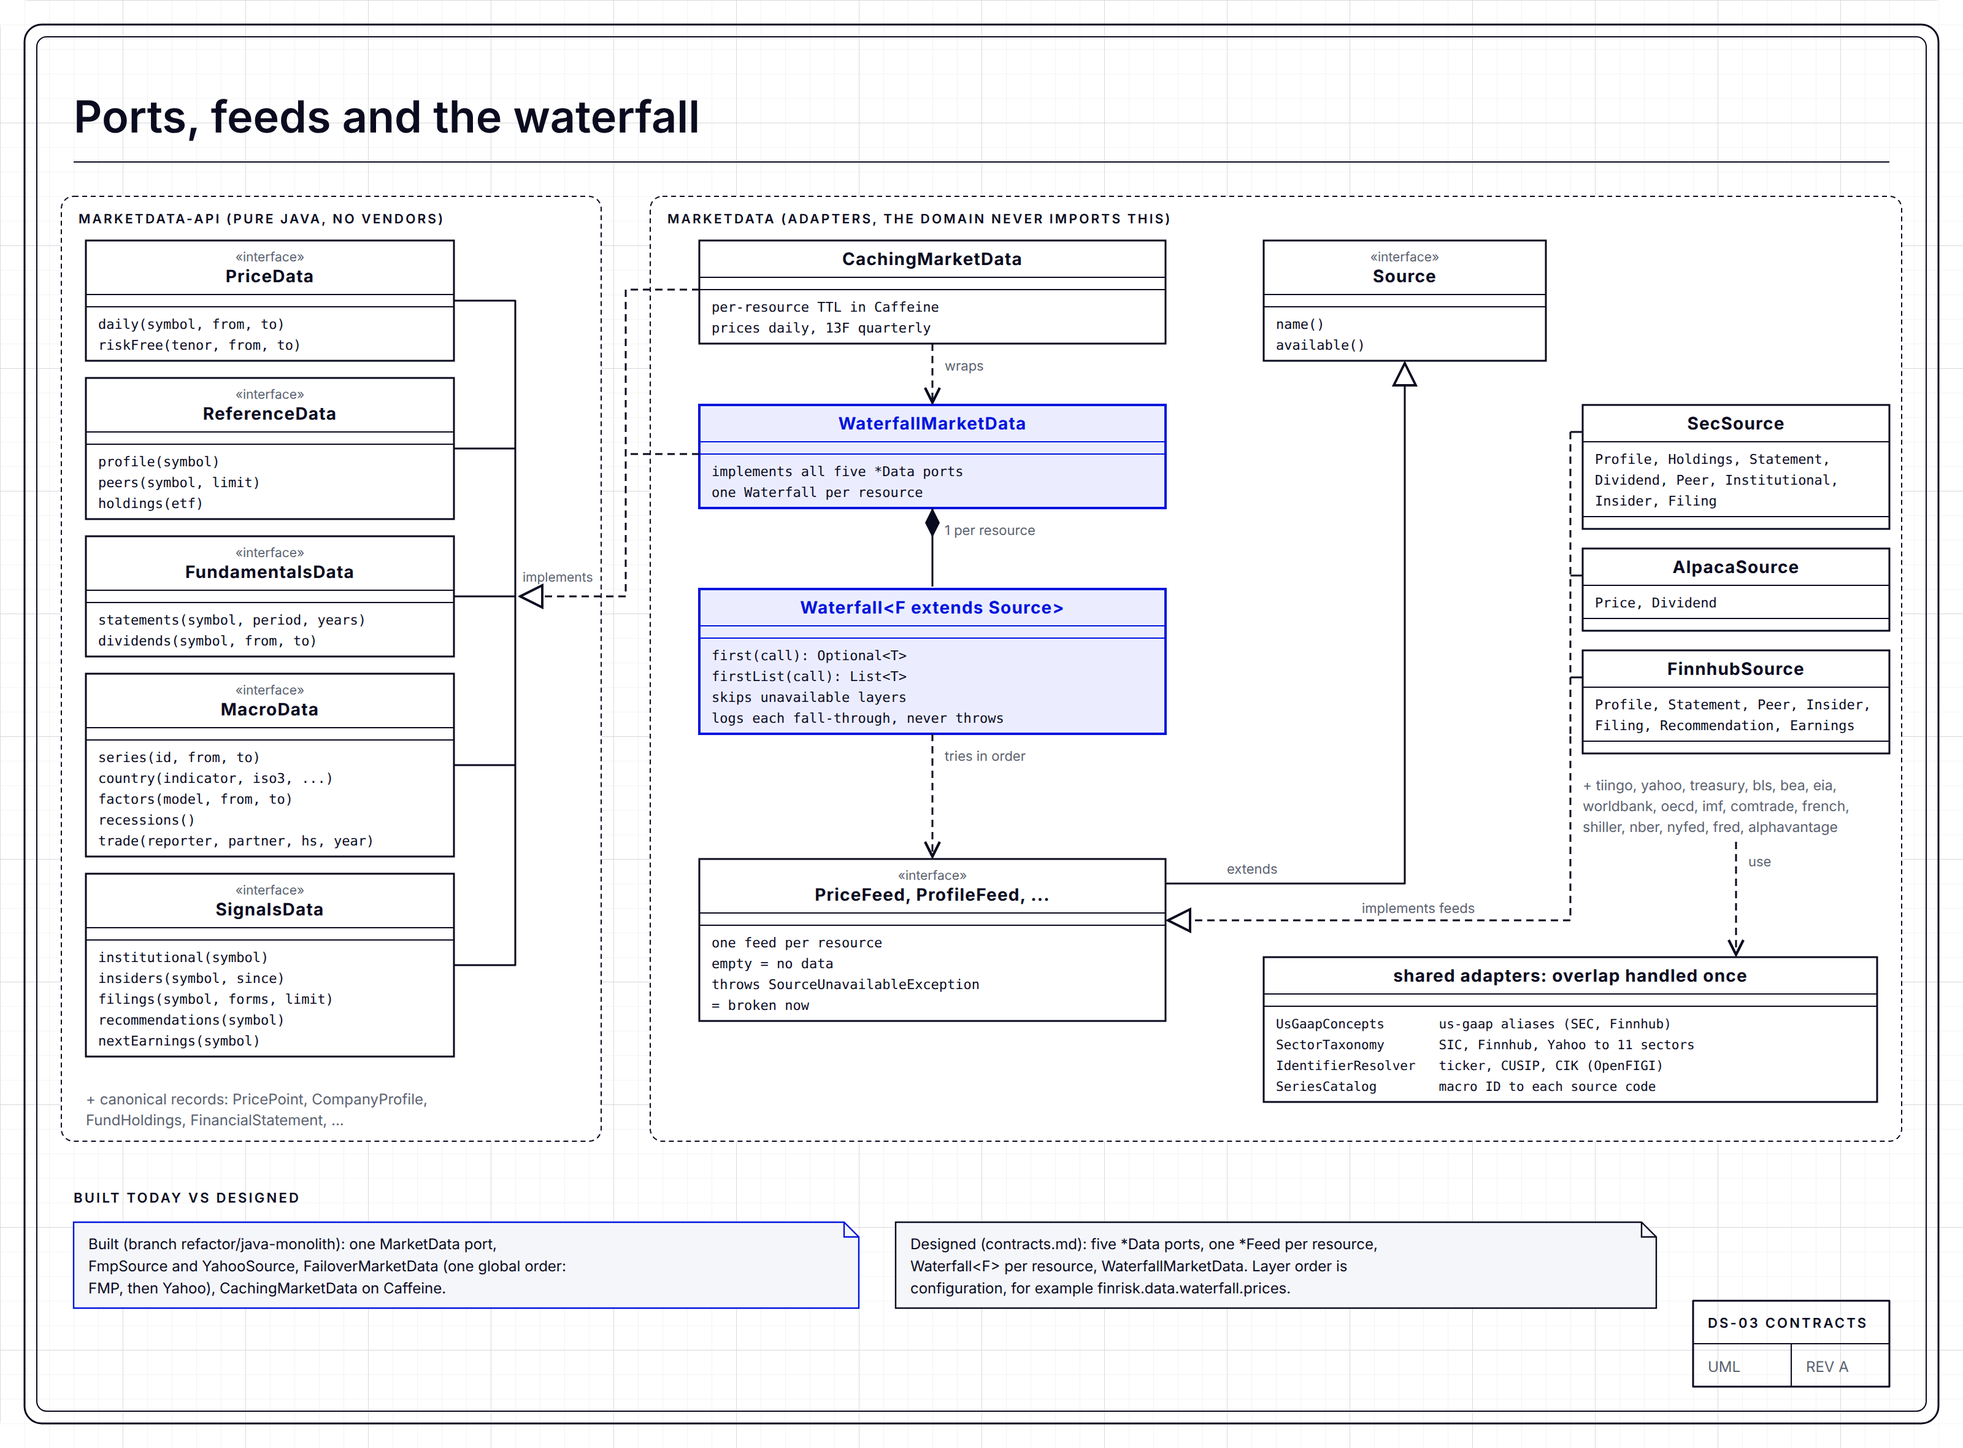
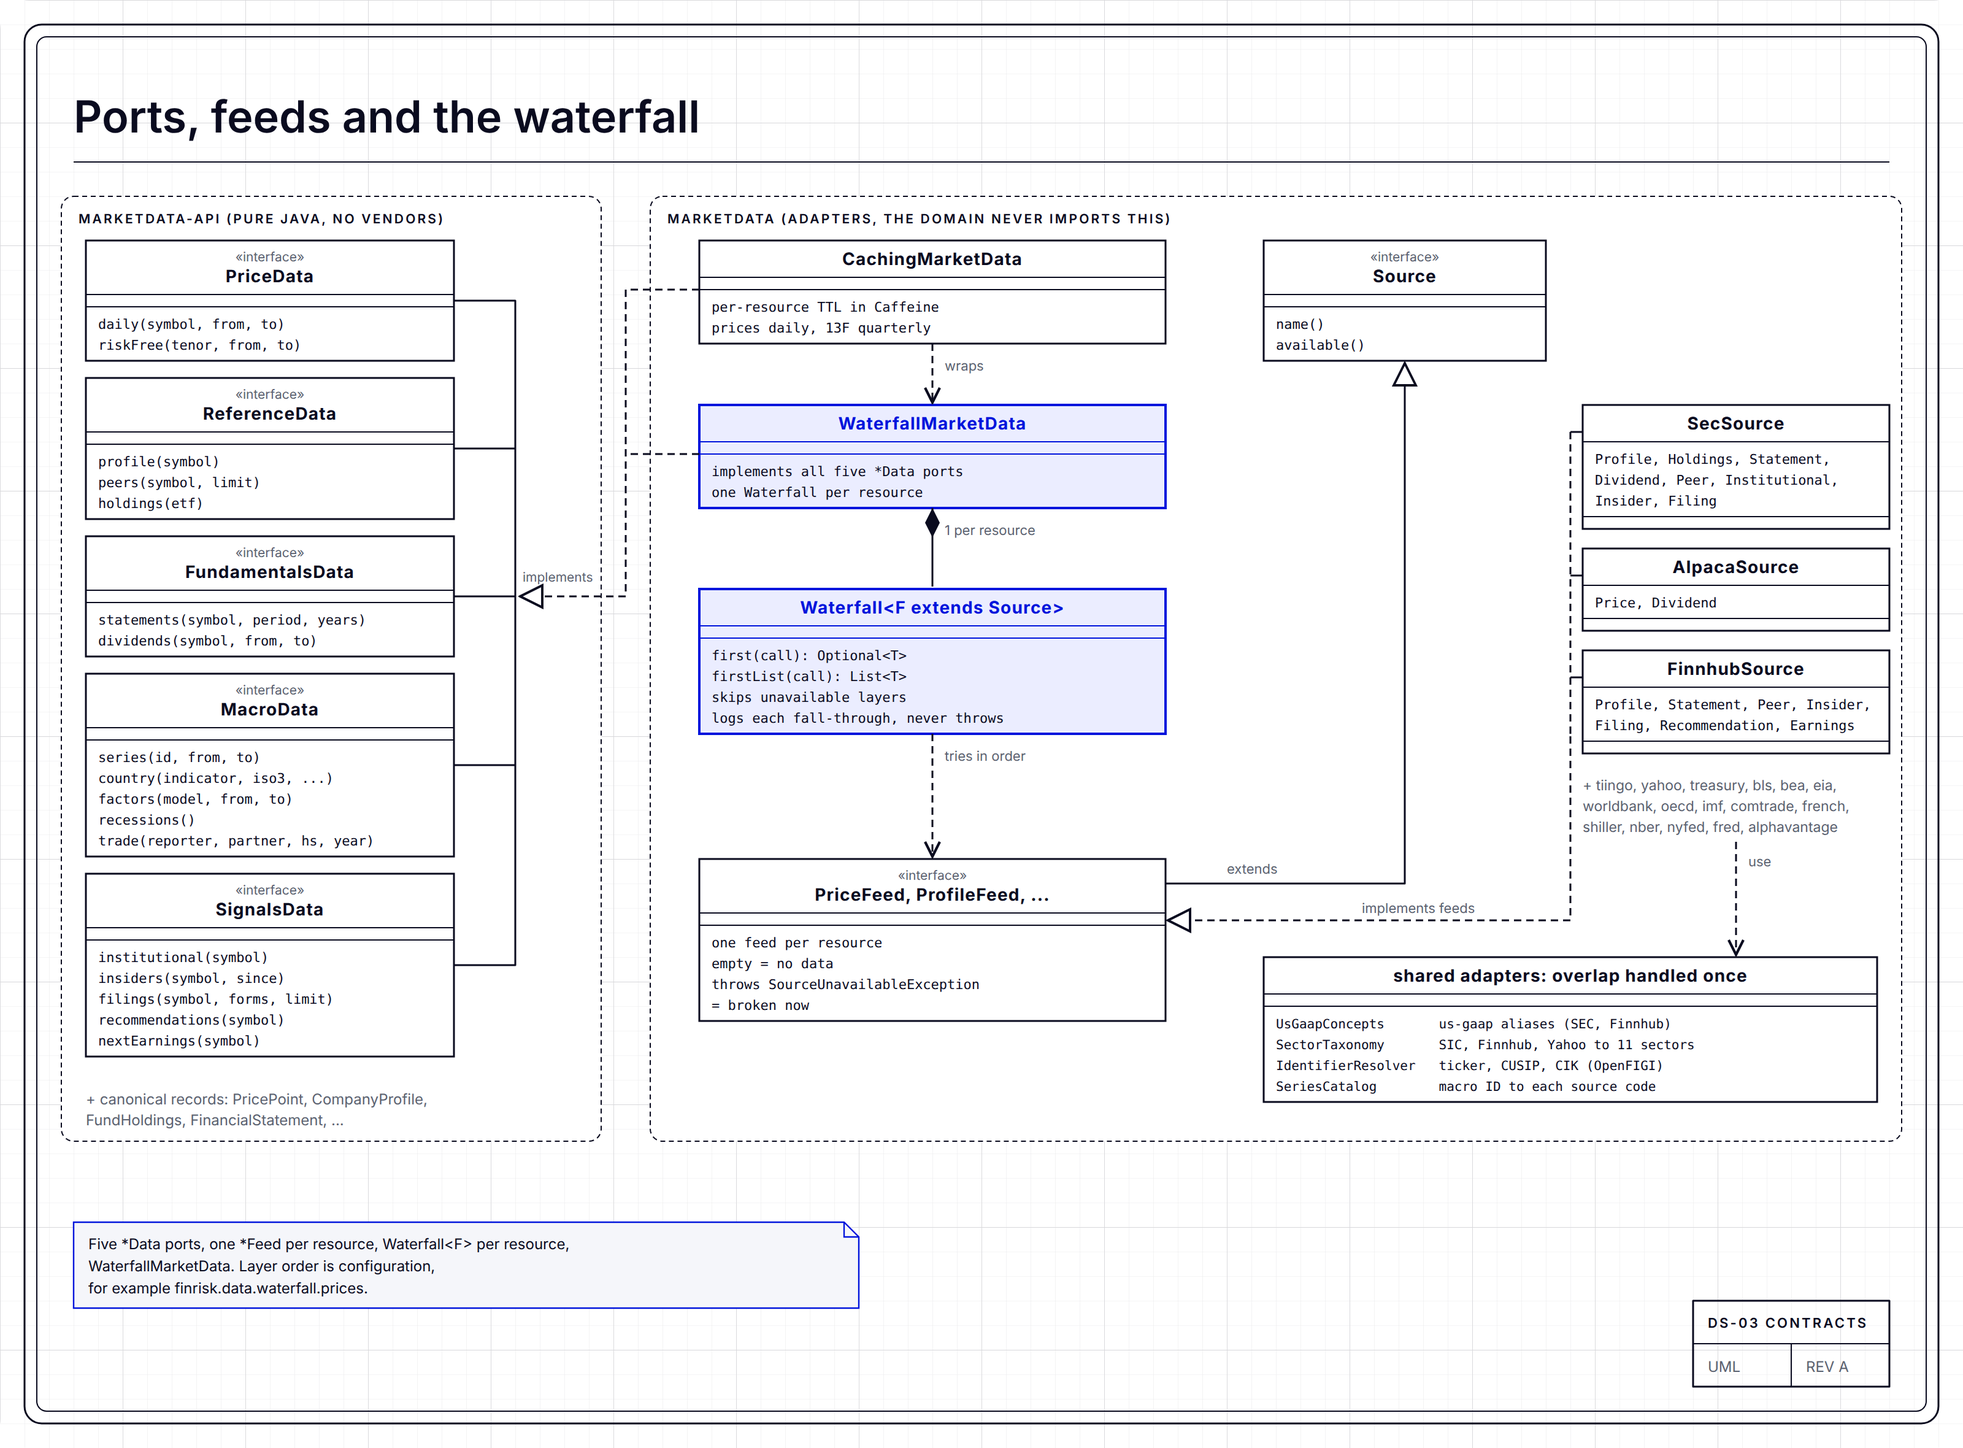
docs: drop build-status notes from README and sheets

Changed region(s): [[0.0312, 0.8042, 0.2812, 0.897], [0.4688, 0.8352, 0.7188, 0.897], [0.8125, 0.8352, 0.8438, 0.8661]]

diff --git a/docs/images/build-uml-usecases.py b/docs/images/build-uml-usecases.py
@@ -13,7 +13,7 @@ o.append(text(296, 203, 'FINRISK', 't'))
 W = 260
 PK = {  # name: (x, y, h, cases)
     'PUBLIC': (300, 220, 230, ['View the landing page', 'Request access', 'Try the demo (public data)']),
-    'TENANT ADMIN (PLANNED)': (900, 220, 230, ['Invite members', 'Assign roles', 'Manage the tenant']),
+    'TENANT ADMIN': (900, 220, 230, ['Invite members', 'Assign roles', 'Manage the tenant']),
     'PORTFOLIO': (300, 480, 400, ['Manage accounts', 'Record trades', 'View holdings and P&amp;L']),
     'FIVE LENSES': (600, 480, 400, ['Analyse portfolio risk', 'Read fundamentals', 'Value a stock',
                                      'Run a stress test', 'See market intelligence']),
@@ -51,9 +51,4 @@ o.append(line(f'M1220 624 L{ax + 112} {ay}'))
 ix, iy = pos['Ingest documents']
 o.append(line(f'M1220 616 L{ix + 112} {iy}'))
 
-o.append(text(60, 940, 'STATUS', 't'))
-for i, s in enumerate(['Built: risk metrics and portfolio CRUD (risk-management-ms), valuation API, hybrid-rag.',
-                       'Designed: fundamentals, stress tests, market intelligence, the demo on public data.',
-                       'Planned: tenants, roles and sign-in. Today the APIs have no login.']):
-    o.append(text(60, 964 + i * 20, s, style='font-size:12.5px;fill:#0a0b1f'))
 uml.finish(o, 'uml-usecases', 'UML-01 USE CASES')

diff --git a/docs/images/build-ds-contracts.py b/docs/images/build-ds-contracts.py
@@ -87,11 +87,7 @@ o.append(line(f'M1415 {src_bottom + 56} V{sh[1]-2}', 'dashed', end='open'))
 o.append(text(1425, src_bottom + 76 if src_bottom + 76 < sh[1] - 4 else sh[1] - 6, 'use', style='font-size:11px'))
 
 # --- strip ---------------------------------------------------------------------------
-o.append(text(60, 980, 'BUILT TODAY VS DESIGNED', 't'))
-o.append(note(60, 996, 640, ['Built (branch refactor/java-monolith): one MarketData port,',
-                             'FmpSource and YahooSource, FailoverMarketData (one global order:',
-                             'FMP, then Yahoo), CachingMarketData on Caffeine.'], accent=True))
-o.append(note(730, 996, 620, ['Designed (contracts.md): five *Data ports, one *Feed per resource,',
-                              'Waterfall&lt;F&gt; per resource, WaterfallMarketData. Layer order is',
-                              'configuration, for example finrisk.data.waterfall.prices.']))
+o.append(note(60, 996, 640, ['Five *Data ports, one *Feed per resource, Waterfall&lt;F&gt; per resource,',
+                             'WaterfallMarketData. Layer order is configuration,',
+                             'for example finrisk.data.waterfall.prices.'], accent=True))
 uml.finish(o, 'ds-contracts', 'DS-03 CONTRACTS', view='UML')

diff --git a/docs/images/build-ds-infra.py b/docs/images/build-ds-infra.py
@@ -92,7 +92,4 @@ for i, s in enumerate(['Prisma Postgres: 200k operations a month, 2 GB storage.'
                        'a seed sized to the storage cap, refresh on visit.',
                        'Prices change. See each vendor’s pricing page.']):
     o.append(text(640, ys + 26 + i * 21, s, style='font-size:12.5px;fill:#0a0b1f'))
-o.append(note(1130, ys - 10, 420, ['Status: the backend modules marketdata-api,', 'marketdata and valuation are built.',
-                                   'risk is in progress, app is not built.', 'The Render deploy is planned (plan Task 13).',
-                                   'The backend-to-RAG call is not written.'], accent=True))
 uml.finish(o, 'ds-infra', 'DS-06 INFRA', view='AXO 32/40')

diff --git a/docs/images/build-ds-waterfall.py b/docs/images/build-ds-waterfall.py
@@ -156,7 +156,6 @@ o.append(svg)
 
 # --- rules (flat strip) -------------------------------------------------------------
 yb = yr + 14 + th + 40
-o.append(note(60, yb - 10, 440, ['Designed, not built. The code today has one', 'global order: FMP, then Yahoo (FailoverMarketData).'], accent=True))
 o.append(text(xt, yb, 'RULES', 't'))
 for i, s in enumerate(['A layer counts only if every required field is present. Otherwise the next layer runs.',
                        'One answer comes from one layer. Fields are never mixed across layers.',

diff --git a/README.md b/README.md
@@ -33,7 +33,7 @@
 
 FinRisk helps a private investor understand what they own. You enter your accounts and trades. FinRisk then looks at the portfolio through five lenses: portfolio risk, fundamentals, intrinsic valuation, stress testing and market intelligence. It answers plain questions. How concentrated am I? What do my ETFs really hold? What is this stock worth? What happens to my portfolio in a recession? It gives analysis, not investment advice.
 
-There are three actors. The **investor** is a member of a tenant and owns portfolios. The **tenant admin** invites members and gives them roles. The **demo visitor** is not signed in. Today the visitor sees the landing page. In the design, the visitor also gets a demo on public-domain data. Two outside systems serve them. **Data sources** supply prices, filings and macro series through the waterfall. **hybrid-rag** answers questions about documents that the investor uploads.
+There are three actors. The **investor** is a member of a tenant and owns portfolios. The **tenant admin** invites members and gives them roles. The **demo visitor** is not signed in. The visitor gets a demo on public-domain data. Two outside systems serve them. **Data sources** supply prices, filings and macro series through the waterfall. **hybrid-rag** answers questions about documents that the investor uploads.
 
 The landing page is live at [finance-kit-bay.vercel.app](https://finance-kit-bay.vercel.app/). These screenshots come from it.
 
@@ -47,22 +47,22 @@ The landing page is live at [finance-kit-bay.vercel.app](https://finance-kit-bay
 
 The landing copy is older than the current scope. It still names geopolitical and supply-chain shocks under stress testing. Those are out of scope now (see below).
 
-<img alt="UML use-case diagram. Demo visitor uses the public package. Investor uses portfolio, five lenses and documents. Tenant admin uses the planned admin package. Data sources serve the lenses. hybrid-rag serves the document use cases." src="docs/images/uml-usecases.png" width="100%">
+<img alt="UML use-case diagram. Demo visitor uses the public package. Investor uses portfolio, five lenses and documents. Tenant admin uses the admin package. Data sources serve the lenses. hybrid-rag serves the document use cases." src="docs/images/uml-usecases.png" width="100%">
 
-A line to a package means the actor can use every use case in it. The investor reaches three packages through one bus at the bottom. The status strip says what exists. Risk metrics and portfolio CRUD exist in `risk-management-ms`. The valuation API exists on the `refactor/java-monolith` branch. Fundamentals, stress tests and market intelligence are designed. Tenants, roles and sign-in are planned. Today the APIs have no login.
+A line to a package means the actor can use every use case in it. The investor reaches three packages through one bus at the bottom.
 
 ## What this project focuses on
 
-This is a personal, non-commercial project. It shows how to build a useful finance tool with no budget for data or hosting. Each focus below is a skill the project exercises. Where a part is designed but not built, the text says so.
+This is a personal, non-commercial project. It shows how to build a useful finance tool with no budget for data or hosting. Each focus below is a skill the project exercises.
 
 - **Multisource data aggregation.** Twenty-eight free sources were graded on depth, quota and terms. Each data resource gets its own ordered list of sources.
 - **Good decisions under budget and compute limits.** Free tiers set hard caps: 25 calls a day, 500 symbols a month, 200k database operations a month. The design treats each cap as a constraint, not as an afterthought.
-- **Cache, database and staleness design.** History is stored once and grows by delta fetches. Each resource has a fresh TTL, a revision window and a maximum stale age. This is designed, not built. Today the code has an in-memory Caffeine cache only.
-- **Shared market data, separate portfolios.** Market data is one shared store. Portfolios are private to a tenant, with role-based access. This is planned, not built.
-- **Decoupling through ports and the waterfall.** Valuation and risk see only the `marketdata-api` port. They cannot see a vendor at compile time. Today the adapters try FMP, then Yahoo. The per-resource waterfall is designed.
-- **Financial domain knowledge.** DCF, dividend discount and Peter Lynch fair value, peer multiples, beta, alpha, volatility, correlation, drawdown, downside risk, sector exposure and ETF look-through. These exist in code today.
-- **Front-end visualisation.** The landing app is React 19, Vite and Tailwind 4. The analysis screens are not built yet.
-- **Java OOP and CRUD practice.** Layered code, plain JDBC, request validation with `@Valid`, paged and sorted transaction lists, and clear error mapping. Rate limiting is planned, not built.
+- **Cache, database and staleness design.** History is stored once and grows by delta fetches. Each resource has a fresh TTL, a revision window and a maximum stale age. Caffeine sits in front of Postgres for hot reads.
+- **Shared market data, separate portfolios.** Market data is one shared store. Portfolios are private to a tenant, with role-based access.
+- **Decoupling through ports and the waterfall.** Valuation and risk see only the `marketdata-api` port. They cannot see a vendor at compile time. Each resource has its own ordered waterfall of sources.
+- **Financial domain knowledge.** DCF, dividend discount and Peter Lynch fair value, peer multiples, beta, alpha, volatility, correlation, drawdown, downside risk, sector exposure and ETF look-through.
+- **Front-end visualisation.** The landing app is React 19, Vite and Tailwind 4.
+- **Java OOP and CRUD practice.** Layered code, plain JDBC, request validation with `@Valid`, paged and sorted transaction lists, and clear error mapping. Rate limiting per source and per client.
 - **Respect for data licences.** Each source has a rights tier. FRED is never stored, because its terms forbid it. Vendor data stays behind a login.
 
 These areas are **not** in scope. They were dropped on purpose, because no free source covers them well, or because other signals already answer the same question:
@@ -91,13 +91,11 @@ A waterfall tries the sources for one resource in order, until one answers. The 
 
 An answer counts only if every required field is present. A required field is checked in the canonical record's constructor. When a layer returns rows without it, the waterfall moves on. One answer comes from one layer. Fields are never mixed across layers, because mixing breaks consistency. A missing optional field stays null, and the domain skips that metric and says so.
 
-<img alt="UML class diagram. marketdata-api holds five interface ports. marketdata holds CachingMarketData, WaterfallMarketData, Waterfall of F, the Feed interfaces, the Source interface, three example sources and four shared adapters. A strip says what is built and what is designed." src="docs/images/ds-contracts.png" width="100%">
+<img alt="UML class diagram. marketdata-api holds five interface ports. marketdata holds CachingMarketData, WaterfallMarketData, Waterfall of F, the Feed interfaces, the Source interface, three example sources and four shared adapters." src="docs/images/ds-contracts.png" width="100%">
 
 The domain sees five ports: `PriceData`, `ReferenceData`, `FundamentalsData`, `MacroData` and `SignalsData`. Each source implements small `*Feed` interfaces, one per resource it can serve. A `Waterfall<F>` holds the ordered layers for one resource. It skips unavailable layers, logs each fall-through and never throws. `WaterfallMarketData` implements all five ports with one waterfall per resource. `CachingMarketData` wraps it.
 
 Several sources speak the same vocabulary, so the overlap is handled once. `UsGaapConcepts` maps us-gaap concept names for SEC and Finnhub. `SectorTaxonomy` maps SIC, Finnhub and Yahoo sectors to one 11-sector list. `IdentifierResolver` maps ticker, CUSIP and CIK through OpenFIGI. `SeriesCatalog` maps a canonical macro ID to each source's own code. The full field mapping per resource is in [`docs/data-sources/contracts.md`](docs/data-sources/contracts.md).
-
-This is a design. The built code on `refactor/java-monolith` has one `MarketData` port, `FmpSource` and `YahooSource`, a `FailoverMarketData` with one global order (FMP, then Yahoo) and a Caffeine `CachingMarketData`.
 
 ## Caching and storage
 
@@ -111,7 +109,7 @@ Each resource has three ages. Inside the **fresh TTL** the stored value is serve
 
 The rights tier decides what we may keep. Public-domain sources (SEC, Treasury, BLS, BEA, EIA) can be stored and shown. World Bank, OECD, IMF, French and Shiller need a citation. Alpaca, Tiingo, Finnhub, Yahoo and Alpha Vantage are for personal use only, so their data stays behind a login. Each stored row records its `source`, so we can purge one vendor's rows if its terms change.
 
-Postgres is the store of record, in its own `marketdata` schema. History is the asset, and it must survive restarts and redeploys. Delta fetch needs one indexed query for the last date held. Peers and look-through are joins. Caffeine stays in front for hot reads, so most reads never reach the database. We do not use Redis, because Postgres and Caffeine cover both jobs. The design is in [`docs/data-sources/caching.md`](docs/data-sources/caching.md). None of the Postgres store is built yet.
+Postgres is the store of record, in its own `marketdata` schema. History is the asset, and it must survive restarts and redeploys. Delta fetch needs one indexed query for the last date held. Peers and look-through are joins. Caffeine stays in front for hot reads, so most reads never reach the database. We do not use Redis, because Postgres and Caffeine cover both jobs. The details are in [`docs/data-sources/caching.md`](docs/data-sources/caching.md).
 
 ## Pre-seed and refresh
 
@@ -123,7 +121,7 @@ Some data is not seeded. Institutional holders come from 13F bulk files, which a
 
 There is no cron. Low traffic makes an always-on scheduler a waste, and the Render free instance sleeps when idle. So refresh work runs only while someone uses the app. A visit wakes the instance. One task reads `fetch_log` and refreshes what is past due. A request that finds stale data gets it at once, with the stale flag, and queues a refresh. A Postgres advisory lock stops two fetches of the same key. Each source has a token bucket and a monthly counter, and an empty budget skips that layer. Progress is saved per key, so a job that stops when the instance sleeps continues on the next visit. A fixed pool of two threads keeps refresh work away from request handling.
 
-The price of this design is small. The first visitor after a long idle period may see stale-flagged data for about a minute. All of this is designed, not built.
+The price of this design is small. The first visitor after a long idle period may see stale-flagged data for about a minute.
 
 ## Infrastructure and stack
 
@@ -132,7 +130,5 @@ The price of this design is small. The first visitor after a long idle period ma
 The front end runs on **Vercel** as a static React build. The backend runs on **Render** as one Spring Boot jar. It is a Maven modular monolith with five modules. `marketdata-api` is the port and the canonical records. `marketdata` holds the vendor adapters and the cache. `risk` holds the portfolio and risk contexts. `valuation` holds DCF, DDM, Lynch and peer analysis. `app` is the Spring Boot entry point that wires them. Valuation and risk depend only on `marketdata-api`. **hybrid-rag** stays a separate Python FastAPI service, private on Render. It is the only extra service.
 
 The database is **Prisma Postgres**. The backend does not use the Prisma ORM. It uses plain JDBC and Flyway over the direct connection string. The free plan allows 200k database operations a month and 2 GB of storage. Every query counts against that cap, so Caffeine sits in front of every read, inserts are batched and the seed is sized to fit. Prices and plans change, so check [prisma.io/pricing](https://www.prisma.io/pricing) for the current limits.
-
-The refactor is in progress on the `refactor/java-monolith` branch, from the plan in [`docs/superpowers/plans/2026-11-19-java-modular-monolith.md`](docs/superpowers/plans/2026-11-19-java-modular-monolith.md). The `marketdata-api`, `marketdata` and `valuation` modules are built and tested. The `risk` module is in progress. The `app` module and the Render deploy are not built yet. Until then, `master` holds the three original services: `risk-management-ms` (Java, SQL Server), `sector-valuation-ms` (Node) and `hybrid-rag` (Python), plus the landing app.
 
 To set up, run, deploy and call the services on `master`, read the [developer guide](docs/developer-guide.md).
